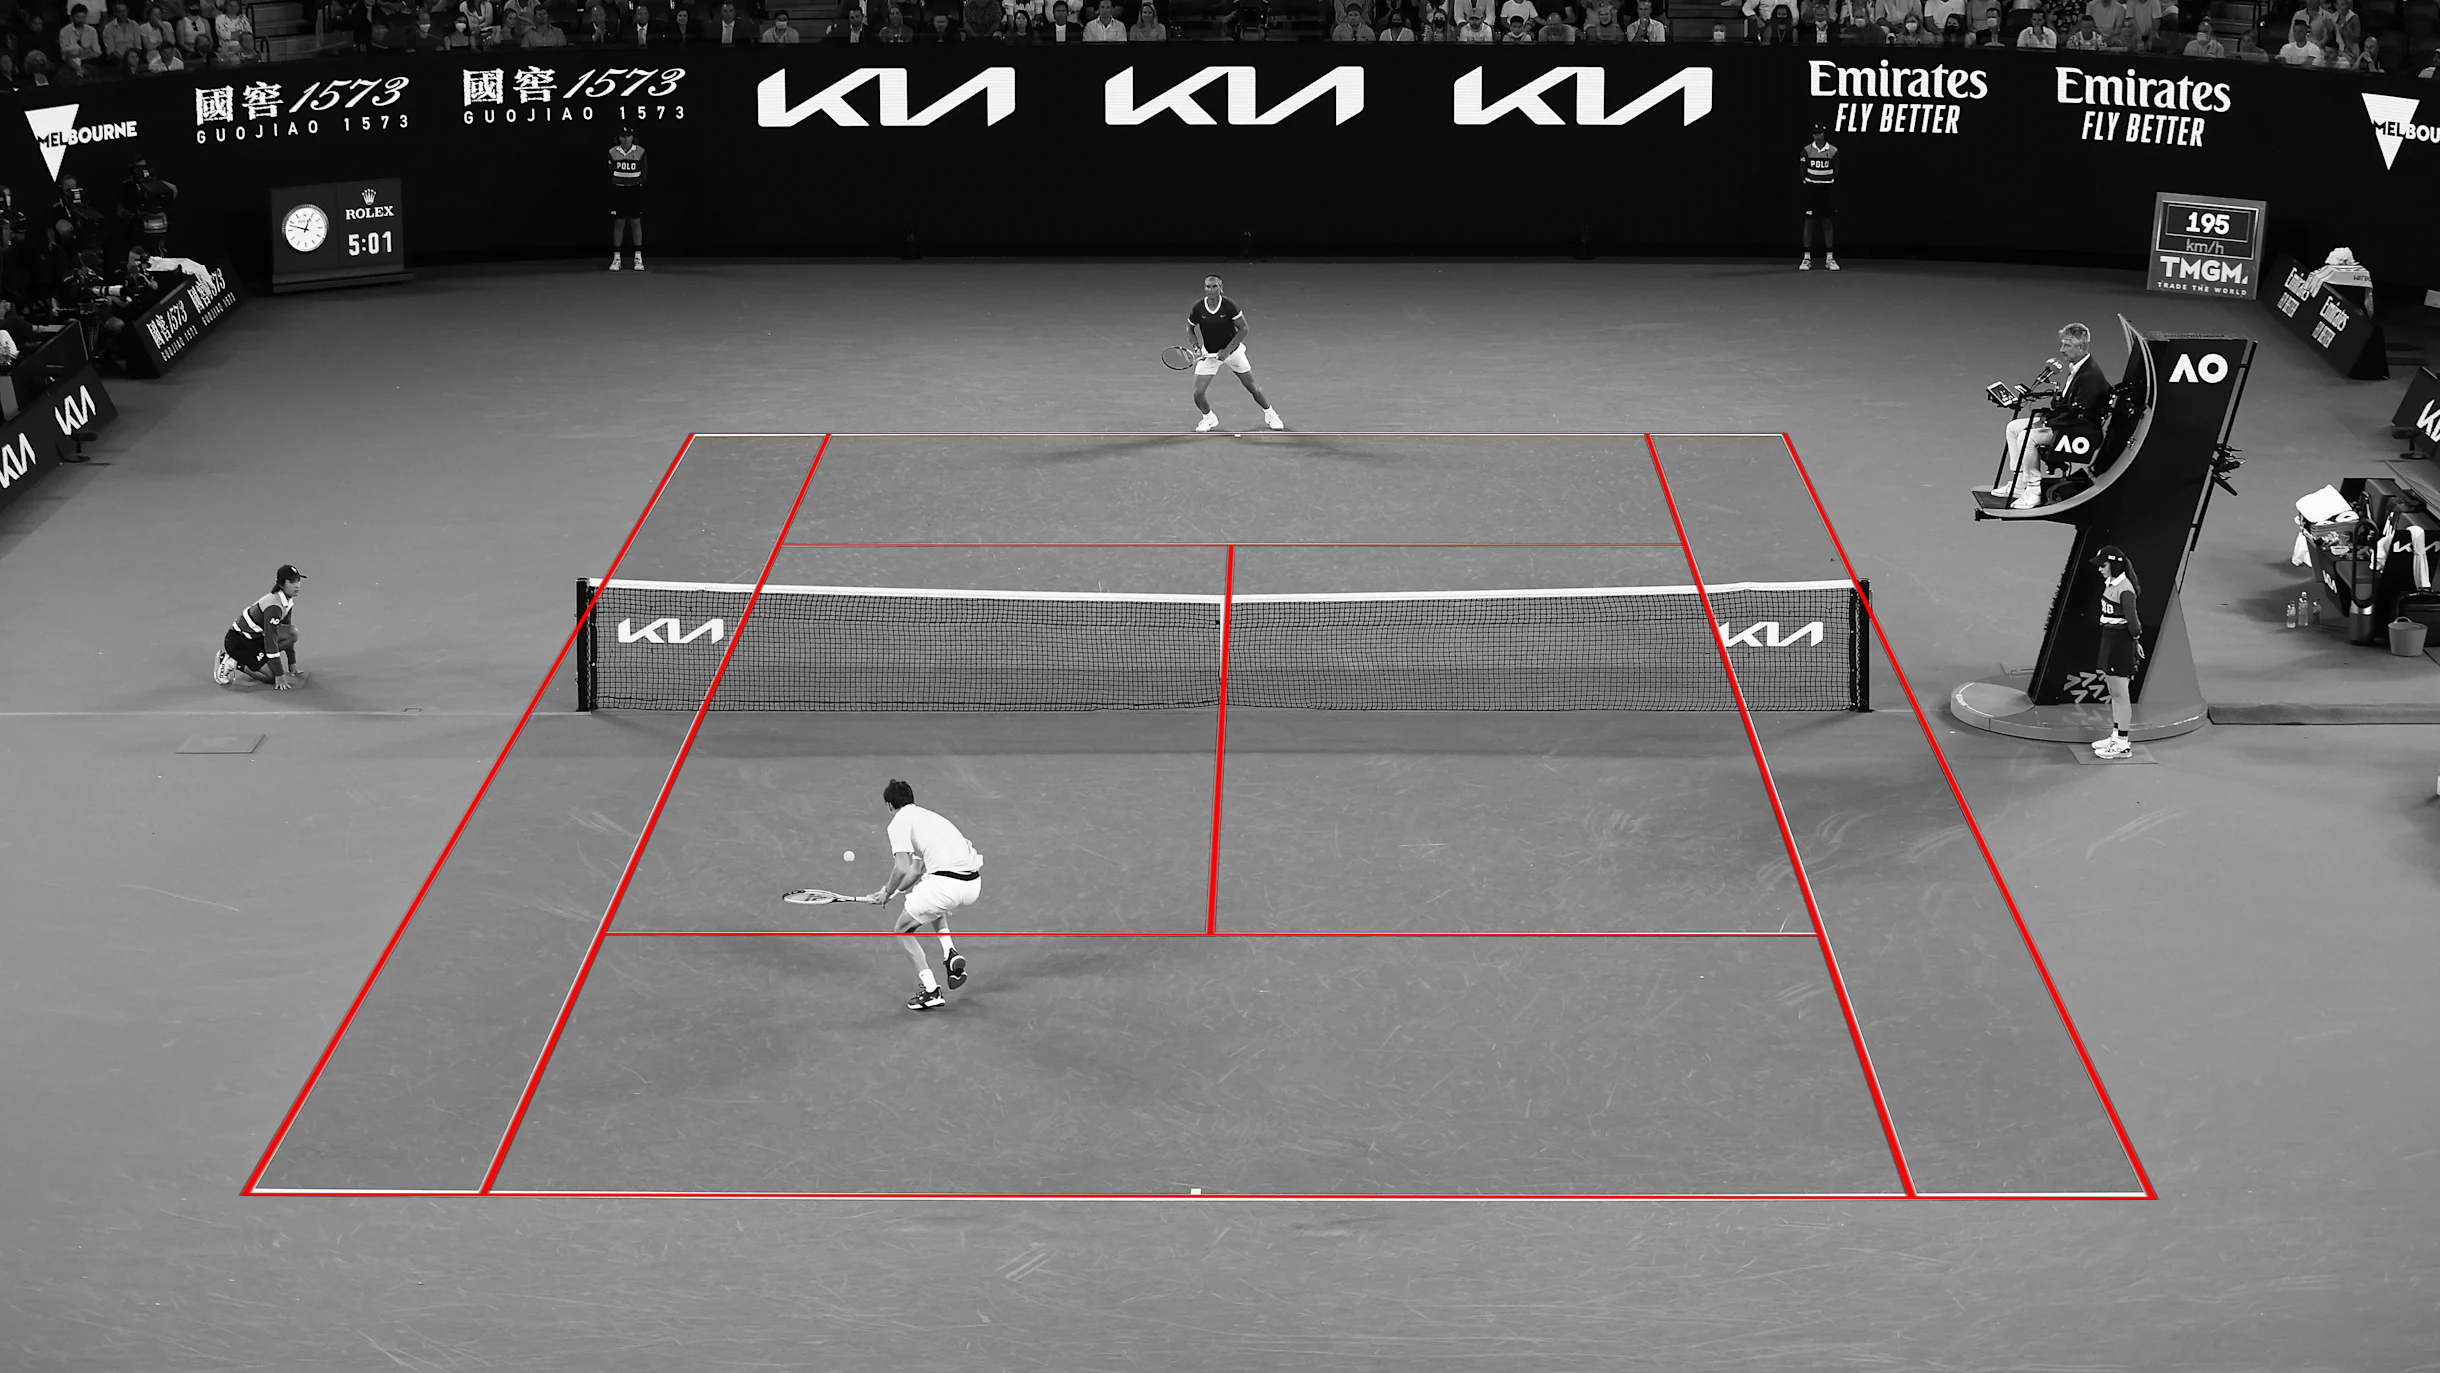
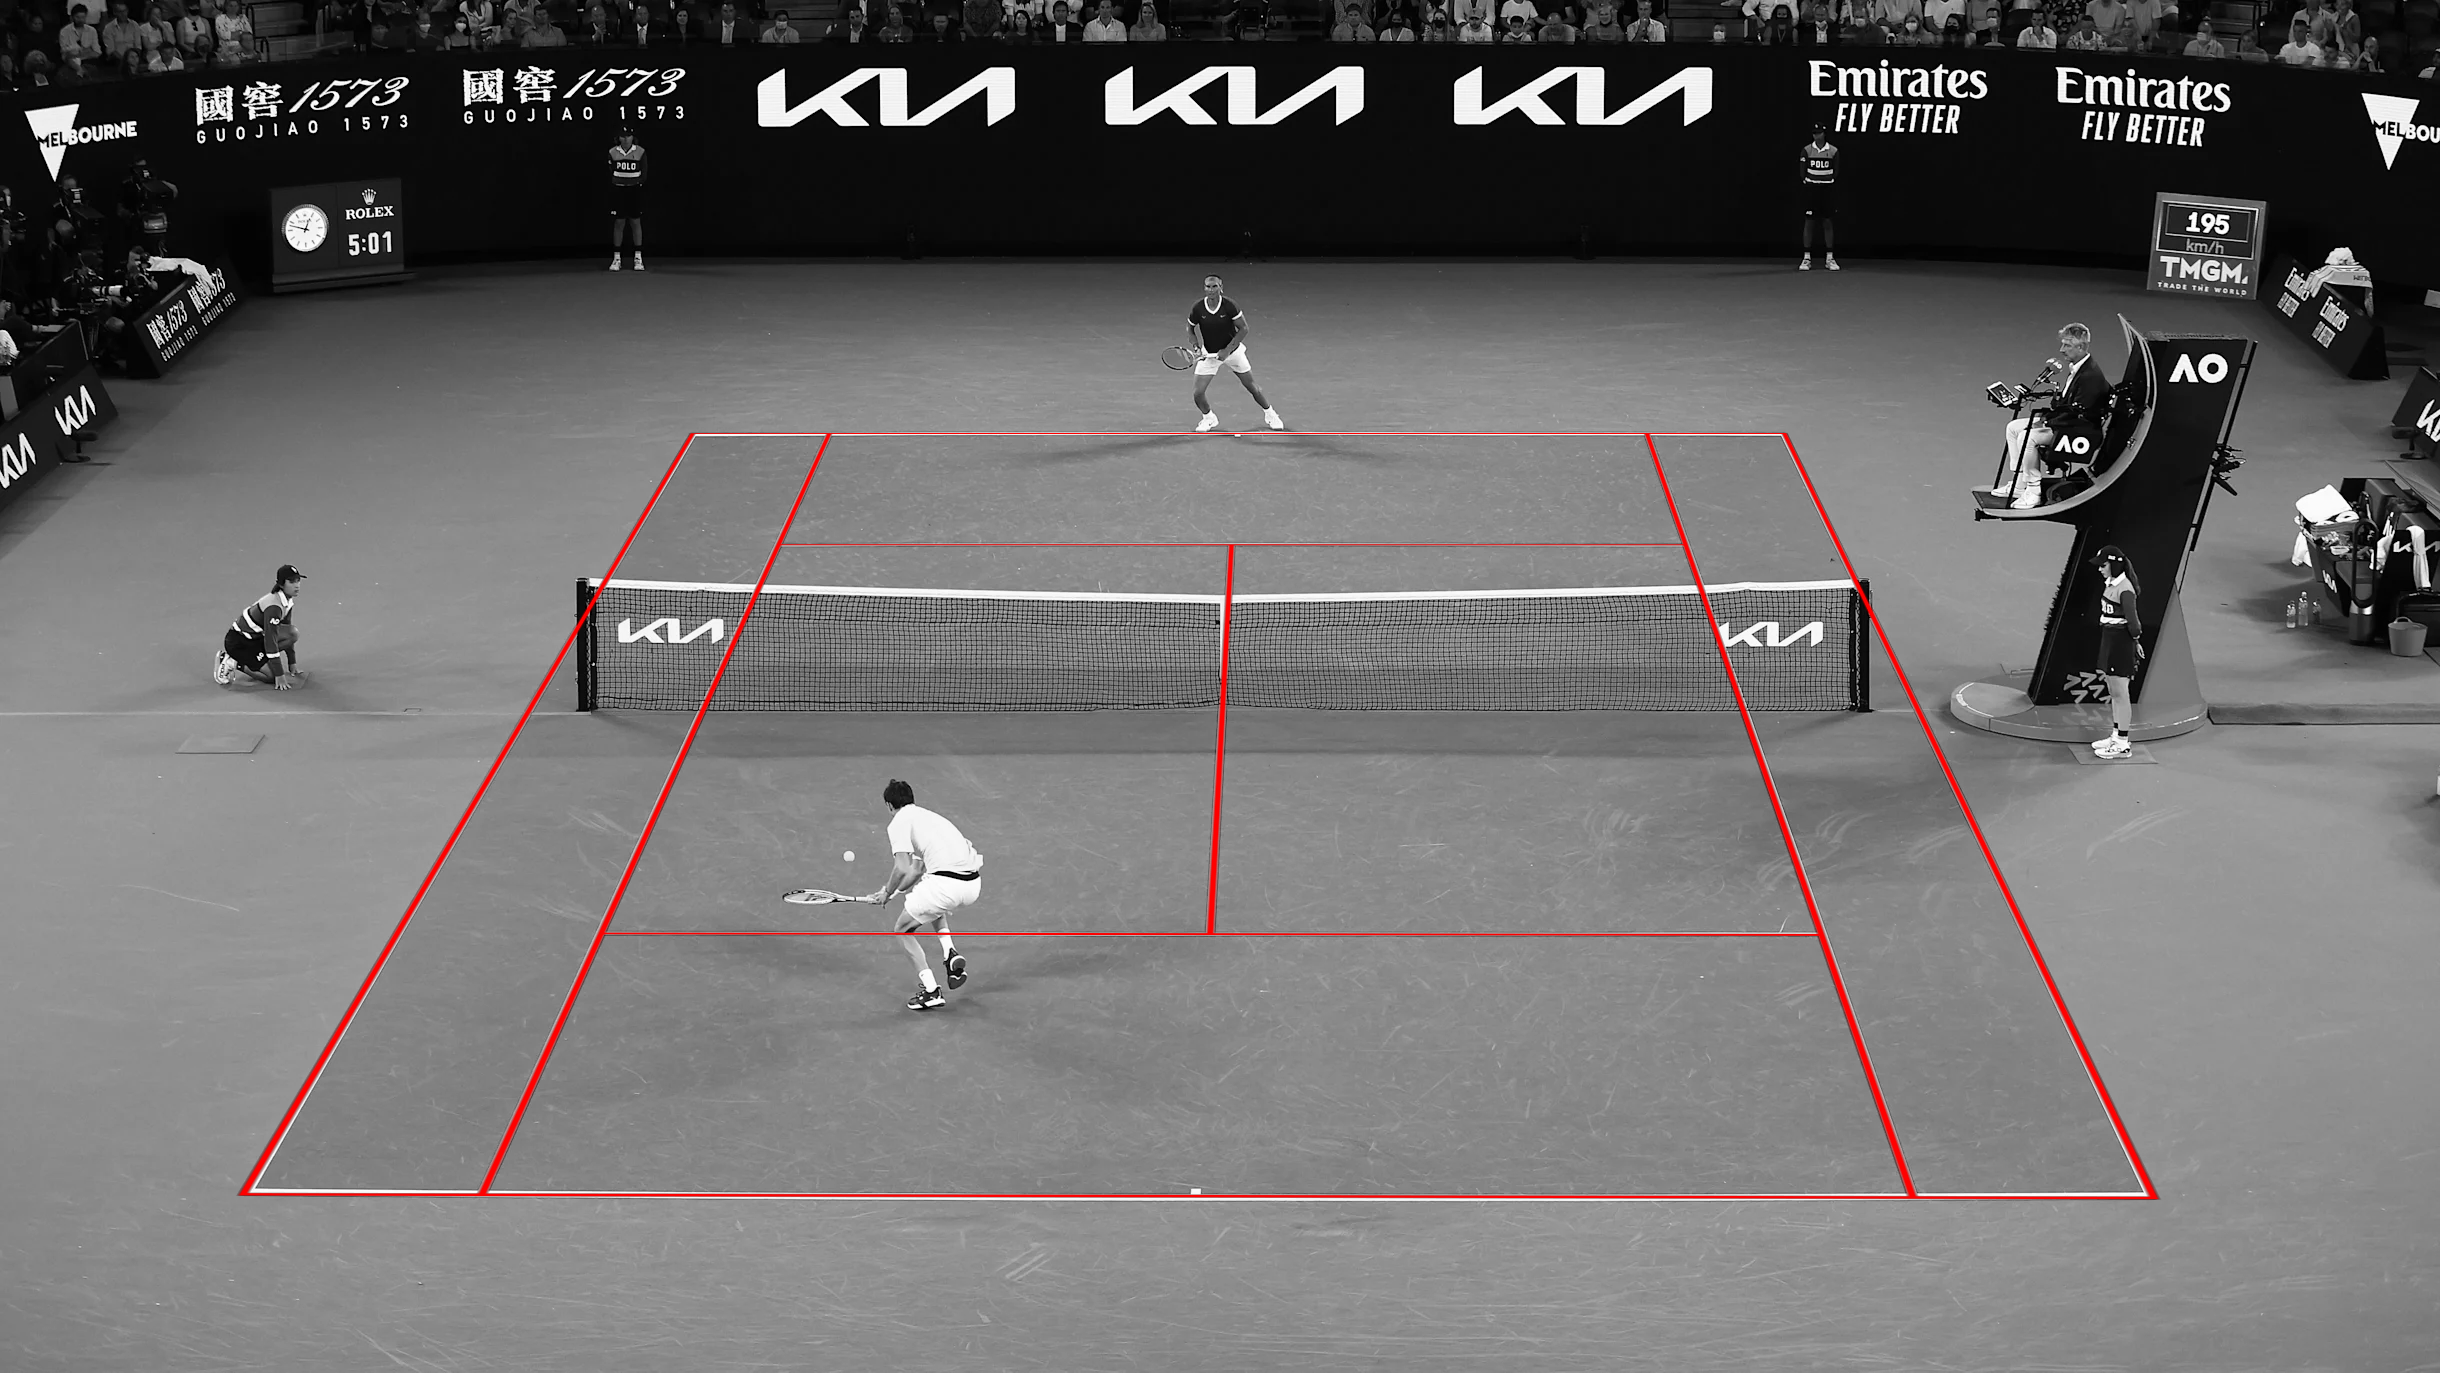
Homography refinement with direct model alignment

diff --git a/src/line_model_detection/direct_model_alignment.cpp b/src/line_model_detection/direct_model_alignment.cpp
@@ -1,0 +1,123 @@
+// Copyright 2023 Krzysztof Wrobel
+
+#include "line_model_detection/direct_model_alignment.h"
+
+#include <Eigen/Geometry>
+#include <glog/logging.h>
+#include <opencv2/imgproc.hpp>
+
+#include <opencv2/highgui.hpp>
+
+namespace hawkeye {
+
+struct ModelPixelError {
+  ModelPixelError(uint model_col,
+                  uint model_row,
+                  Scalar model_val,
+                  const cv::Size& camera_image_size,
+                  const DirectModelAlignment::Interpolator& interpolator)
+      : pt_in_model(model_col, model_row, 1.0),
+        model_val(model_val),
+        camera_image_size(camera_image_size),
+        interpolator(interpolator) {}
+
+  template <class T>
+  bool operator()(const T* const raw_model2cam, T* raw_residual) const {
+    Eigen::Map<const Mat3T<T>> model2cam(raw_model2cam);
+    T& residual = *raw_residual;
+
+    Vec3T<T> pt_in_camera = (model2cam * pt_in_model.cast<T>());
+    pt_in_camera /= pt_in_camera[2];
+    
+    T camera_pixel_value;
+    interpolator.Evaluate(pt_in_camera[1], pt_in_camera[0], &camera_pixel_value);
+
+    residual = T(model_val) - camera_pixel_value;
+
+    return true;
+  }
+
+  static ceres::CostFunction* create(uint model_col,
+                                     uint model_row,
+                                     Scalar model_val,
+                                     const cv::Size& camera_image_size,
+                                     const DirectModelAlignment::Interpolator& interpolator) {
+    return new ceres::AutoDiffCostFunction<ModelPixelError, 1, 9>(
+      new ModelPixelError(model_col, model_row, model_val, camera_image_size, interpolator));
+  }
+
+  Vec3 pt_in_model;
+  Scalar model_val;
+  const cv::Size& camera_image_size;
+  const DirectModelAlignment::Interpolator& interpolator;
+};
+
+DirectModelAlignment::DirectModelAlignment(const LineModel& model,
+                                           const cv::Size& camera_image_size,
+                                           const Mat3& camera_matrix,
+                                           Scalar blur_size)
+    : model_(model),
+      camera_image_size_(camera_image_size),
+      grid_image_(cv::Mat::zeros(camera_image_size.height + 2, camera_image_size.width + 2, CV_64F)),
+      camera_subimage_(grid_image_(cv::Range(1, camera_image_size.height + 1),
+                                   cv::Range(1, camera_image_size.width + 1))),
+      grid_2d_(grid_image_.ptr<Scalar>(),
+               -1, camera_image_size.height + 1,
+               -1, camera_image_size.width + 1),
+      interpolator_(grid_2d_),
+      camera_matrix_(camera_matrix),
+      blur_size_(blur_size),
+      problem_options_(createProblemOptions()),
+      solver_options_(createSolverOptions()),
+      problem_(problem_options_),
+      subset_manifold_(9, { 8 }) {
+  LOG(INFO) << "DirectModelAlignment (blur: " << blur_size << ")";
+
+  problem_.AddParameterBlock(optimized_model2camera_image_hom_.data(), 9, &subset_manifold_);
+  
+  for (int row = 0; row < model_.getImage().rows; row++) {
+    const uchar* row_ptr = model_.getImage().ptr<uchar>(row);
+    for (int col = 0; col < model_.getImage().cols; col++) {
+      ceres::CostFunction* cost_function =
+          ModelPixelError::create(col, row, row_ptr[col] / 255.0, camera_image_size_, interpolator_);
+      problem_.AddResidualBlock(cost_function, nullptr, optimized_model2camera_image_hom_.data());
+    }
+  }
+}
+
+Mat3 DirectModelAlignment::align(const Mat3& model2camera, const cv::Mat& pixel_image) {
+  CHECK(camera_subimage_.size == pixel_image.size);
+
+  cv::Mat pixel_image_scaled;
+  pixel_image.convertTo(pixel_image_scaled, camera_subimage_.type(), 1./255.);
+
+  int ksize = static_cast<int>(std::floor(blur_size_ / 2)) * 2 + 1;
+  cv::GaussianBlur(pixel_image_scaled, camera_subimage_, {ksize, ksize}, 0.);
+  cv::normalize(camera_subimage_, camera_subimage_, 1.0, 0.0, cv::NORM_INF);
+
+  optimized_model2camera_image_hom_ = camera_matrix_ * model2camera;
+
+  ceres::Solver::Summary summary;
+  ceres::Solve(solver_options_, &problem_, &summary);
+
+  LOG(INFO) << summary.FullReport();
+
+  return camera_matrix_.inverse() * optimized_model2camera_image_hom_;
+}
+
+ceres::Problem::Options DirectModelAlignment::createProblemOptions() {
+  ceres::Problem::Options options;
+  options.manifold_ownership = ceres::DO_NOT_TAKE_OWNERSHIP;
+
+  return options;
+}
+
+ceres::Solver::Options DirectModelAlignment::createSolverOptions() {
+  ceres::Solver::Options options;
+  options.minimizer_type = ceres::MinimizerType::TRUST_REGION;
+  options.linear_solver_type = ceres::LinearSolverType::DENSE_QR;
+
+  return options;
+}
+
+} // namespace hawkeye

diff --git a/src/line_model_detection/line_model_detector.cpp b/src/line_model_detection/line_model_detector.cpp
@@ -8,6 +8,7 @@
 #include <glog/logging.h>
 #include <opencv2/imgproc.hpp>
 
+#include "line_model_detection/direct_model_alignment.h"
 #include "line_model_detection/drawing_routines.h"
 #include "line_model_detection/homography_estimator.h"
 #include "line_model_detection/line_pixel_extractor.h"
@@ -41,6 +42,11 @@ cv::Mat visualizeDetectedModel(const cv::Mat& image,
 LineModelDetector::Result LineModelDetector::detect(const cv::Mat& image,
                                                     const Mat3& camera_matrix,
                                                     bool generate_debug_images) {  
+  Result result;
+  if (generate_debug_images) {
+     result.debug_images["Model image"] = line_model_.getImage();
+  }
+  
   const uint assumed_line_width = 10;
 
   // Line pixel extraction ////////////////////////////////////////////////////
@@ -62,6 +68,10 @@ LineModelDetector::Result LineModelDetector::detect(const cv::Mat& image,
                                                      block_size,
                                                      aperture_size))
       .extract(image);
+
+  if (generate_debug_images) {
+    result.debug_images["Line pixel image"] = lpe_result.line_pixel_image;
+  }
 
   // Line detection ///////////////////////////////////////////////////////////
 
@@ -93,6 +103,10 @@ LineModelDetector::Result LineModelDetector::detect(const cv::Mat& image,
       .addStep(std::make_unique<IdealPointClassifier>(ideal_point_dist))
       .detect(lpe_result);
 
+  if (generate_debug_images) {
+    result.debug_images["Detected lines"] = visualizeDetectedLines(image, ld_result, camera_matrix);
+  }
+
   // Homography estimation ////////////////////////////////////////////////////
 
   const Scalar min_beta = 0.4;
@@ -105,23 +119,27 @@ LineModelDetector::Result LineModelDetector::detect(const cv::Mat& image,
       .setScoring(std::make_unique<ModelAlignmentScoring>(hit_award, miss_penalty))
       .estimate(lpe_result, ld_result);
 
-  Result result;
-
-  if (he_result) {
-    LOG(INFO) << "Model successfully detected!";
-    result.model2camera_image_homography = camera_matrix * he_result.value();
-    result.visualization = visualizeDetectedModel(image, line_model_, he_result.value(), camera_matrix);
-  } else {
+  if (!he_result) {
     LOG(ERROR) << "Model could not be detected!";
+
+    return result;
   }
 
   if (generate_debug_images) {
-    result.debug_images = {
-      { "Line pixel image", lpe_result.line_pixel_image },
-      { "Detected lines", visualizeDetectedLines(image, ld_result, camera_matrix) },
-      { "Model image", line_model_.getImage() }
-    };
+    result.debug_images["Coarse homography estimation"] = visualizeDetectedModel(image, line_model_, he_result.value(), camera_matrix);
   }
+
+  // Direct model alignment ///////////////////////////////////////////////////
+
+  Scalar blur_size = assumed_line_width;
+  Mat3 model2camera = DirectModelAlignment(line_model_, image.size(), camera_matrix, blur_size)
+      .align(he_result.value(), lpe_result.line_pixel_image);
+
+  result.model2camera_image_homography = 
+  result.model2camera_image_homography = camera_matrix * model2camera;
+  result.visualization = visualizeDetectedModel(image, line_model_, model2camera, camera_matrix);
+  
+  LOG(INFO) << "Model successfully detected!";
 
   return result;
 }

diff --git a/src/line_model_detection/direct_model_alignment.h b/src/line_model_detection/direct_model_alignment.h
@@ -1,0 +1,46 @@
+// Copyright 2023 Krzysztof Wrobel
+
+#pragma once
+
+#include <ceres/ceres.h>
+#include <ceres/cubic_interpolation.h>
+
+#include "line_model_detection/line_model.h"
+#include "line_model_detection/types.h"
+
+namespace hawkeye {
+
+class DirectModelAlignment {
+public:
+  using Grid = ceres::Grid2D<Scalar, 1>;
+  using Interpolator = ceres::BiCubicInterpolator<Grid>;
+
+  DirectModelAlignment(const LineModel& model,
+                       const cv::Size& camera_image_size,
+                       const Mat3& camera_mat,
+                       Scalar blur_size);
+
+  Mat3 align(const Mat3& model2camera, const cv::Mat& pixel_image);
+
+private:
+  static ceres::Problem::Options createProblemOptions();
+  static ceres::Solver::Options createSolverOptions();
+
+  const LineModel& model_;
+  cv::Size camera_image_size_;
+  cv::Mat grid_image_;
+  cv::Mat camera_subimage_;
+  Grid grid_2d_;
+  Interpolator interpolator_;
+  Mat3 optimized_model2camera_image_hom_;
+
+  Mat3 camera_matrix_;
+  Scalar blur_size_;
+
+  ceres::Problem::Options problem_options_;
+  ceres::Solver::Options solver_options_;
+  ceres::Problem problem_;
+  ceres::SubsetManifold subset_manifold_;
+};
+
+} // namesapce hawkeye

diff --git a/README.md b/README.md
@@ -50,9 +50,11 @@ The algorithm has three main steps:
 * Line detection [src/line_model_detection/line_detector.h](src/line_model_detection/line_detector.h)
   - detecting lines having extracted pixels as an input.
   - composed of several `Step`s.
-* Homography estimation [src/line_model_detection/homography_estimator.h](src/line_model_detection/homography_estimator.h)
+* Coarse homography estimation [src/line_model_detection/homography_estimator.h](src/line_model_detection/homography_estimator.h)
   - brute-force matching of the detected and model lines.
   - `Test`ing and `Scoring` the results to find the best estimation.
+* Homography refinement [src/line_model_detection/direct_model_alignment.h](src/line_model_detection/direct_model_alignment.h)
+  - Direct model image alignment using photometric error.
 
 See the `LineModelDetector::detect()` method in [src/line_model_detection/line_model_detector.cpp](src/line_model_detection/line_model_detector.cpp) to have a quick view on all the parts of the algorithm.
 
